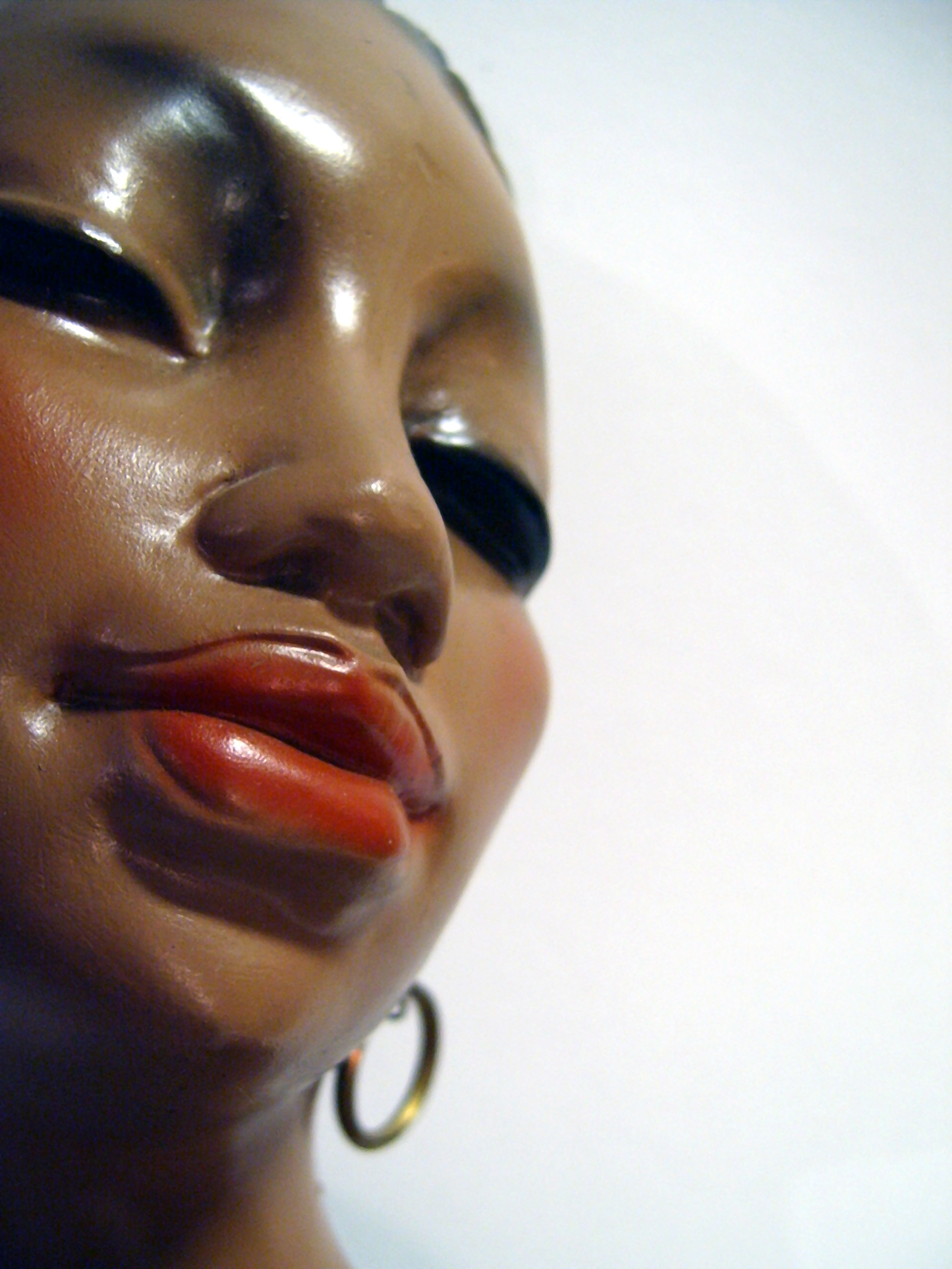
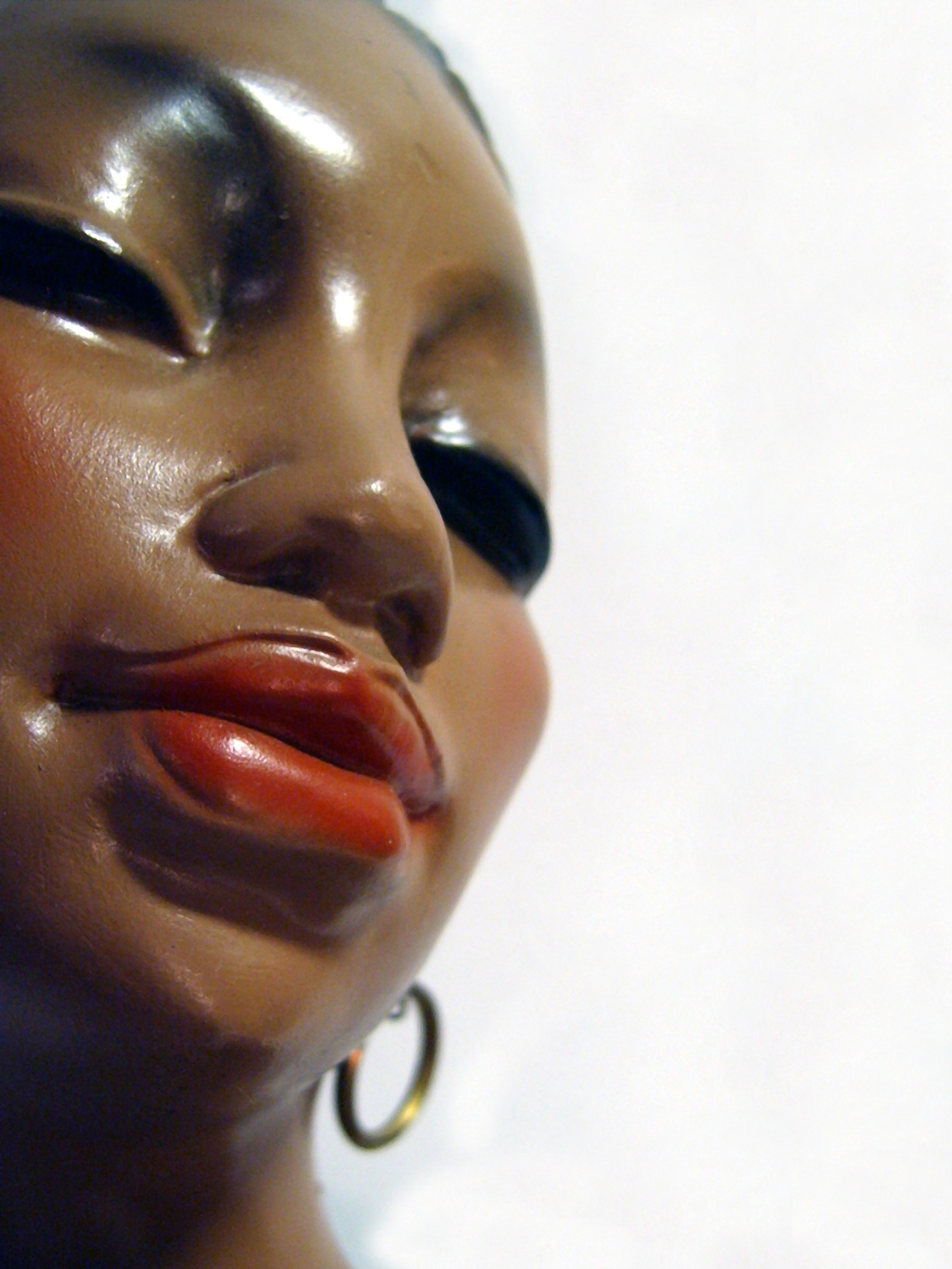
Update Header when first arrive to page
Picture was edited and kept in css. I made the edges white to blend in
with the background. updated subtitle to include titles.

Changed region(s): [[0.4354, 0.0, 1.0, 0.1875], [0.3732, 0.9375, 0.6221, 1.0], [0.9642, 0.9688, 1.0, 1.0]]

diff --git a/css/stylish-portfolio.min.css b/css/stylish-portfolio.min.css
@@ -2,4 +2,4 @@
  * Start Bootstrap - Stylish Portfolio v5.0.8 (https://startbootstrap.com/themes/stylish-portfolio)
  * Copyright 2013-2020 Start Bootstrap
  * Licensed under MIT (https://github.com/StartBootstrap/startbootstrap-stylish-portfolio/blob/master/LICENSE)
- */body,html{width:100%;height:100%}body{font-family:'Source Sans Pro'}.btn-xl{padding:1.25rem 2.5rem}.content-section{padding-top:7.5rem;padding-bottom:7.5rem}.content-section-heading h2{font-size:3rem}.content-section-heading h3{font-size:1rem;text-transform:uppercase}h1,h2,h3,h4,h5,h6{font-weight:700}.text-faded{color:rgba(255,255,255,.7)}.map{height:30rem}@media (max-width:992px){.map{height:75%}}.map iframe{pointer-events:none}.scroll-to-top{position:fixed;right:15px;bottom:15px;display:none;width:50px;height:50px;text-align:center;color:#fff;background:rgba(52,58,64,.5);line-height:45px}.scroll-to-top:focus,.scroll-to-top:hover{color:#fff}.scroll-to-top:hover{background:#343a40}.scroll-to-top i{font-weight:800}.masthead{min-height:30rem;position:relative;display:table;width:100%;height:auto;padding-top:8rem;padding-bottom:8rem;background:linear-gradient(90deg,rgba(255,255,255,.1) 0,rgba(255,255,255,.1) 100%),url(../img/vintage-ceramic-figurine-2-1559026.jpg);background-repeat:no-repeat;background-size:contain}.masthead h1{font-size:4rem;margin:0;padding:0}@media (min-width:992px){.masthead{height:100vh}.masthead h1{font-size:5.5rem}}#sidebar-wrapper{position:fixed;z-index:2;right:0;width:250px;height:100%;transition:all .4s ease 0s;transform:translateX(250px);background:#1d809f;border-left:1px solid rgba(255,255,255,.1)}.sidebar-nav{position:absolute;top:0;width:250px;margin:0;padding:0;list-style:none}.sidebar-nav li.sidebar-nav-item a{display:block;text-decoration:none;color:#fff;padding:15px}.sidebar-nav li a:hover{text-decoration:none;color:#fff;background:rgba(255,255,255,.2)}.sidebar-nav li a:active,.sidebar-nav li a:focus{text-decoration:none}.sidebar-nav>.sidebar-brand{font-size:1.2rem;background:rgba(52,58,64,.1);height:80px;line-height:50px;padding-top:15px;padding-bottom:15px;padding-left:15px}.sidebar-nav>.sidebar-brand a{color:#fff}.sidebar-nav>.sidebar-brand a:hover{color:#fff;background:0 0}#sidebar-wrapper.active{right:250px;width:250px;transition:all .4s ease 0s}.menu-toggle{position:fixed;right:15px;top:15px;width:50px;height:50px;text-align:center;color:#fff;background:rgba(52,58,64,.5);line-height:50px;z-index:999}.menu-toggle:focus,.menu-toggle:hover{color:#fff}.menu-toggle:hover{background:#343a40}.service-icon{background-color:#fff;color:#1d809f;height:7rem;width:7rem;display:block;line-height:7.5rem;font-size:2.25rem;box-shadow:0 3px 3px 0 rgba(0,0,0,.1)}.callout{padding:15rem 0;background:linear-gradient(90deg,rgba(255,255,255,.1) 0,rgba(255,255,255,.1) 100%),url(../img/rustcolortastic-1194589.jpg);background-position:center center;background-repeat:no-repeat;background-size:cover;opacity:50%}.callout h2{font-size:3.5rem;font-weight:700;display:block;max-width:30rem}.portfolio-item{display:block;position:relative;overflow:hidden;max-width:530px;margin:auto auto 1rem}.portfolio-item .caption{display:flex;height:100%;width:100%;background-color:rgba(33,37,41,.2);position:absolute;top:0;bottom:0;z-index:1}.portfolio-item .caption .caption-content{color:#fff;margin:auto 2rem 2rem}.portfolio-item .caption .caption-content h2{font-size:.8rem;text-transform:uppercase}.portfolio-item .caption .caption-content p{font-weight:300;font-size:1.2rem}@media (min-width:992px){.portfolio-item{max-width:none;margin:0}.portfolio-item .caption{transition:background-color .7s,-webkit-clip-path .25s ease-out;transition:clip-path .25s ease-out,background-color .7s;transition:clip-path .25s ease-out,background-color .7s,-webkit-clip-path .25s ease-out;-webkit-clip-path:inset(0);clip-path:inset(0)}.portfolio-item .caption .caption-content{transition:opacity .25s;margin-left:5rem;margin-right:5rem;margin-bottom:5rem}.portfolio-item img{transition:-webkit-clip-path .25s ease-out;transition:clip-path .25s ease-out;transition:clip-path .25s ease-out,-webkit-clip-path .25s ease-out;-webkit-clip-path:inset(-1px);clip-path:inset(-1px)}.portfolio-item:hover img{-webkit-clip-path:inset(2rem);clip-path:inset(2rem)}.portfolio-item:hover .caption{background-color:rgba(29,128,159,.9);-webkit-clip-path:inset(2rem);clip-path:inset(2rem)}}.map iframe{height:100%;width:100%;border:0}footer.footer{padding-top:5rem;padding-bottom:5rem}footer.footer .social-link{display:block;height:4rem;width:4rem;line-height:4.3rem;font-size:1.5rem;background-color:#1d809f;transition:background-color .15s ease-in-out;box-shadow:0 3px 3px 0 rgba(0,0,0,.1)}footer.footer .social-link:hover{background-color:#155d74;text-decoration:none}a{color:#1d809f}a:active,a:focus,a:hover{color:#155d74}.btn-primary{background-color:#1d809f!important;border-color:#1d809f!important;color:#fff!important}.btn-primary:active,.btn-primary:focus,.btn-primary:hover{background-color:#155d74!important;border-color:#155d74!important}.btn-secondary{background-color:#ecb807!important;border-color:#ecb807!important;color:#fff!important}.btn-secondary:active,.btn-secondary:focus,.btn-secondary:hover{background-color:#ba9106!important;border-color:#ba9106!important}.btn-dark{color:#fff!important}.btn{box-shadow:0 3px 3px 0 rgba(0,0,0,.1);font-weight:700}.bg-primary{background-color:#1d809f!important}.text-primary{color:#1d809f!important}.text-secondary{color:#ecb807!important}
+ */body,html{width:100%;height:100%}body{font-family:'Source Sans Pro'}.btn-xl{padding:1.25rem 2.5rem}.content-section{padding-top:7.5rem;padding-bottom:7.5rem}.content-section-heading h2{font-size:3rem}.content-section-heading h3{font-size:1rem;text-transform:uppercase}h1,h2,h3,h4,h5,h6{font-weight:700}.text-faded{color:rgba(255,255,255,.7)}.map{height:30rem}@media (max-width:992px){.map{height:75%}}.map iframe{pointer-events:none}.scroll-to-top{position:fixed;right:15px;bottom:15px;display:none;width:50px;height:50px;text-align:center;color:#fff;background:rgba(52,58,64,.5);line-height:45px}.scroll-to-top:focus,.scroll-to-top:hover{color:#fff}.scroll-to-top:hover{background:#343a40}.scroll-to-top i{font-weight:800}.masthead{min-height:30rem;position:relative;display:table;width:100%;height:auto;padding-top:8rem;padding-bottom:8rem;background:linear-gradient(90deg,rgba(255,255,255,.1) 0,rgba(255,255,255,.1) 100%),url(../img/vintage-ceramic-figurine-2-1559026.jpg);background-repeat:no-repeat;background-size:contain}.masthead h1{font-size:4rem;margin:0;padding:0}@media (min-width:992px){.masthead{height:100vh}.masthead h1{font-size:5.5rem}}.masthead img{margin:0;padding:0;box-shadow:0 0 8px 8px #fff inset}#sidebar-wrapper{position:fixed;z-index:2;right:0;width:250px;height:100%;transition:all .4s ease 0s;transform:translateX(250px);background:#1d809f;border-left:1px solid rgba(255,255,255,.1)}.sidebar-nav{position:absolute;top:0;width:250px;margin:0;padding:0;list-style:none}.sidebar-nav li.sidebar-nav-item a{display:block;text-decoration:none;color:#fff;padding:15px}.sidebar-nav li a:hover{text-decoration:none;color:#fff;background:rgba(255,255,255,.2)}.sidebar-nav li a:active,.sidebar-nav li a:focus{text-decoration:none}.sidebar-nav>.sidebar-brand{font-size:1.2rem;background:rgba(52,58,64,.1);height:80px;line-height:50px;padding-top:15px;padding-bottom:15px;padding-left:15px}.sidebar-nav>.sidebar-brand a{color:#fff}.sidebar-nav>.sidebar-brand a:hover{color:#fff;background:0 0}#sidebar-wrapper.active{right:250px;width:250px;transition:all .4s ease 0s}.menu-toggle{position:fixed;right:15px;top:15px;width:50px;height:50px;text-align:center;color:#fff;background:rgba(52,58,64,.5);line-height:50px;z-index:999}.menu-toggle:focus,.menu-toggle:hover{color:#fff}.menu-toggle:hover{background:#343a40}.service-icon{background-color:#fff;color:#1d809f;height:7rem;width:7rem;display:block;line-height:7.5rem;font-size:2.25rem;box-shadow:0 3px 3px 0 rgba(0,0,0,.1)}.callout{padding:15rem 0;background:linear-gradient(90deg,rgba(255,255,255,.1) 0,rgba(255,255,255,.1) 100%),url(../img/rustcolortastic-1194589.jpg);background-position:center center;background-repeat:no-repeat;background-size:cover;opacity:50%}.callout h2{font-size:3.5rem;font-weight:700;display:block;max-width:30rem}.portfolio-item{display:block;position:relative;overflow:hidden;max-width:530px;margin:auto auto 1rem}.portfolio-item .caption{display:flex;height:100%;width:100%;background-color:rgba(33,37,41,.2);position:absolute;top:0;bottom:0;z-index:1}.portfolio-item .caption .caption-content{color:#fff;margin:auto 2rem 2rem}.portfolio-item .caption .caption-content h2{font-size:.8rem;text-transform:uppercase}.portfolio-item .caption .caption-content p{font-weight:300;font-size:1.2rem}@media (min-width:992px){.portfolio-item{max-width:none;margin:0}.portfolio-item .caption{transition:background-color .7s,-webkit-clip-path .25s ease-out;transition:clip-path .25s ease-out,background-color .7s;transition:clip-path .25s ease-out,background-color .7s,-webkit-clip-path .25s ease-out;-webkit-clip-path:inset(0);clip-path:inset(0)}.portfolio-item .caption .caption-content{transition:opacity .25s;margin-left:5rem;margin-right:5rem;margin-bottom:5rem}.portfolio-item img{transition:-webkit-clip-path .25s ease-out;transition:clip-path .25s ease-out;transition:clip-path .25s ease-out,-webkit-clip-path .25s ease-out;-webkit-clip-path:inset(-1px);clip-path:inset(-1px)}.portfolio-item:hover img{-webkit-clip-path:inset(2rem);clip-path:inset(2rem)}.portfolio-item:hover .caption{background-color:rgba(29,128,159,.9);-webkit-clip-path:inset(2rem);clip-path:inset(2rem)}}.map iframe{height:100%;width:100%;border:0}footer.footer{padding-top:5rem;padding-bottom:5rem}footer.footer .social-link{display:block;height:4rem;width:4rem;line-height:4.3rem;font-size:1.5rem;background-color:#1d809f;transition:background-color .15s ease-in-out;box-shadow:0 3px 3px 0 rgba(0,0,0,.1)}footer.footer .social-link:hover{background-color:#155d74;text-decoration:none}a{color:#1d809f}a:active,a:focus,a:hover{color:#155d74}.btn-primary{background-color:#1d809f!important;border-color:#1d809f!important;color:#fff!important}.btn-primary:active,.btn-primary:focus,.btn-primary:hover{background-color:#155d74!important;border-color:#155d74!important}.btn-secondary{background-color:#ecb807!important;border-color:#ecb807!important;color:#fff!important}.btn-secondary:active,.btn-secondary:focus,.btn-secondary:hover{background-color:#ba9106!important;border-color:#ba9106!important}.btn-dark{color:#fff!important}.btn{box-shadow:0 3px 3px 0 rgba(0,0,0,.1);font-weight:700}.bg-primary{background-color:#1d809f!important}.text-primary{color:#1d809f!important}.text-secondary{color:#ecb807!important}

diff --git a/index.html b/index.html
@@ -57,7 +57,7 @@
     <div class="container text-center my-auto">
       <h1 class="mb-1 d-flex justify-content-end">Cynthia L. Douglas</h1>
       <h3 class="mb-5 d-flex justify-content-end">
-        <em>I want to blur out the right and bottom sides of this header image.</em>
+        <em>Educator | Full Stack Developer | Web Accessibility Enthusiast</em>
       </h3>
       <a class="btn btn-warning btn-xl js-scroll-trigger" href="./img/CynthiaLDouglas_8.31.20.jpg">View My Resume</a>
     </div>

diff --git a/css/stylish-portfolio.css b/css/stylish-portfolio.css
@@ -113,6 +113,12 @@ h6 {
   }
 }
 
+.masthead img {
+  margin: 0;
+  padding: 0;
+  box-shadow: 0 0 8px 8px white inset;
+}
+
 /* Side Menu */
 #sidebar-wrapper {
   position: fixed;

diff --git a/scss/_masthead.scss b/scss/_masthead.scss
@@ -21,4 +21,9 @@
       font-size: 5.5rem;
     }
   }
+  img {
+    margin: 0;
+    padding: 0;
+    box-shadow: 0 0 8px 8px white inset;
+  }
 }
